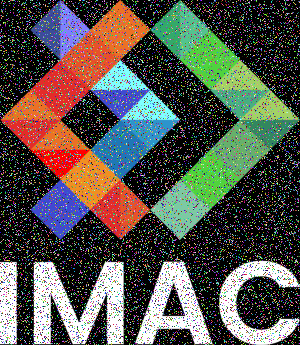
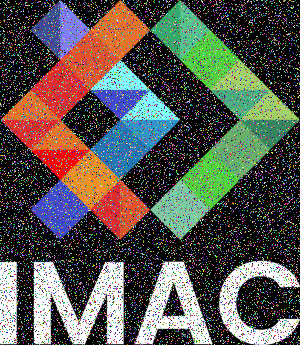
update avec le split rgb

diff --git a/src/main.cpp b/src/main.cpp
@@ -11,7 +11,6 @@ void green_only(sil::Image &image)
         {
             image.pixel(x, y).r = 0;
             image.pixel(x, y).b = 0;
-            // test
         }
     }
 }
@@ -113,25 +112,39 @@ void rotating(sil::Image&image){
     image = new_image;
 }
 
+
+
 void rgb_split(sil::Image &image)
 {
-    for (int x{0}; x < image.width(); x++)
-    {
-        for (int y{0}; y < image.height(); y++)
-        {
-            image.pixel(x,y).g = 1;
+    sil::Image splitImage {image};
 
-          /*if (image.pixel(x,y).r = )
-            {
+  for(int x{0}; x < image.width(); x++) {
+        for(int y{0}; y < image.height(); y++) {
+            if(x < 30) {
+                splitImage.pixel(x, y).b = image.pixel(x + 30, y).b;
+            } else if (x > image.width() - 31) {
+                splitImage.pixel(x, y).r = image.pixel(x - 30, y).r;
+            } else {
+                splitImage.pixel(x, y).r = image.pixel(x - 30, y).r;
+                splitImage.pixel(x, y).b = image.pixel(x + 30, y).b;
             }
-            if (image.pixel(x, y).r = )
-            {
-            } */ 
         }
     }
+        image = splitImage;
+
+
 }
 
+ void luminosity(sil::Image&image){
+   
+    for (int y{0}; y < new_image.height(); y++)
+    {
+        for (int x{0}; x < new_image.width(); x++)
+        {
 
+        }
+    } 
+} 
 
 int main()
 {
@@ -186,5 +199,11 @@ int main()
     sil::Image image{"images/logo.png"};
     rgb_split(image);
     image.save("output/rgb_split.png");
+    } 
+
+    {
+    sil::Image image{"images/photo.jpg"};
+    luminosity(image);
+    image.save("output/luminosity.png"); 
     } 
 }
